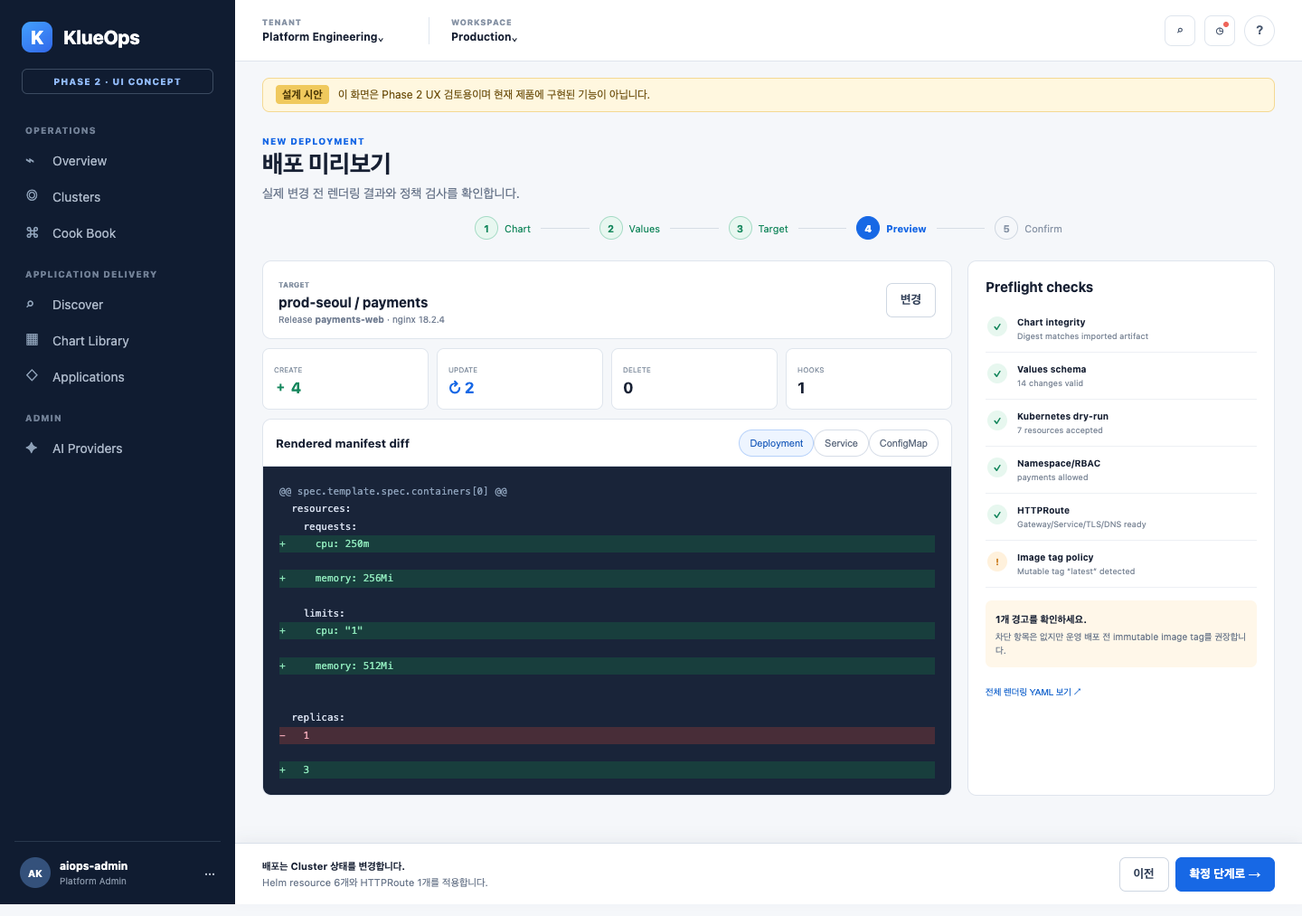
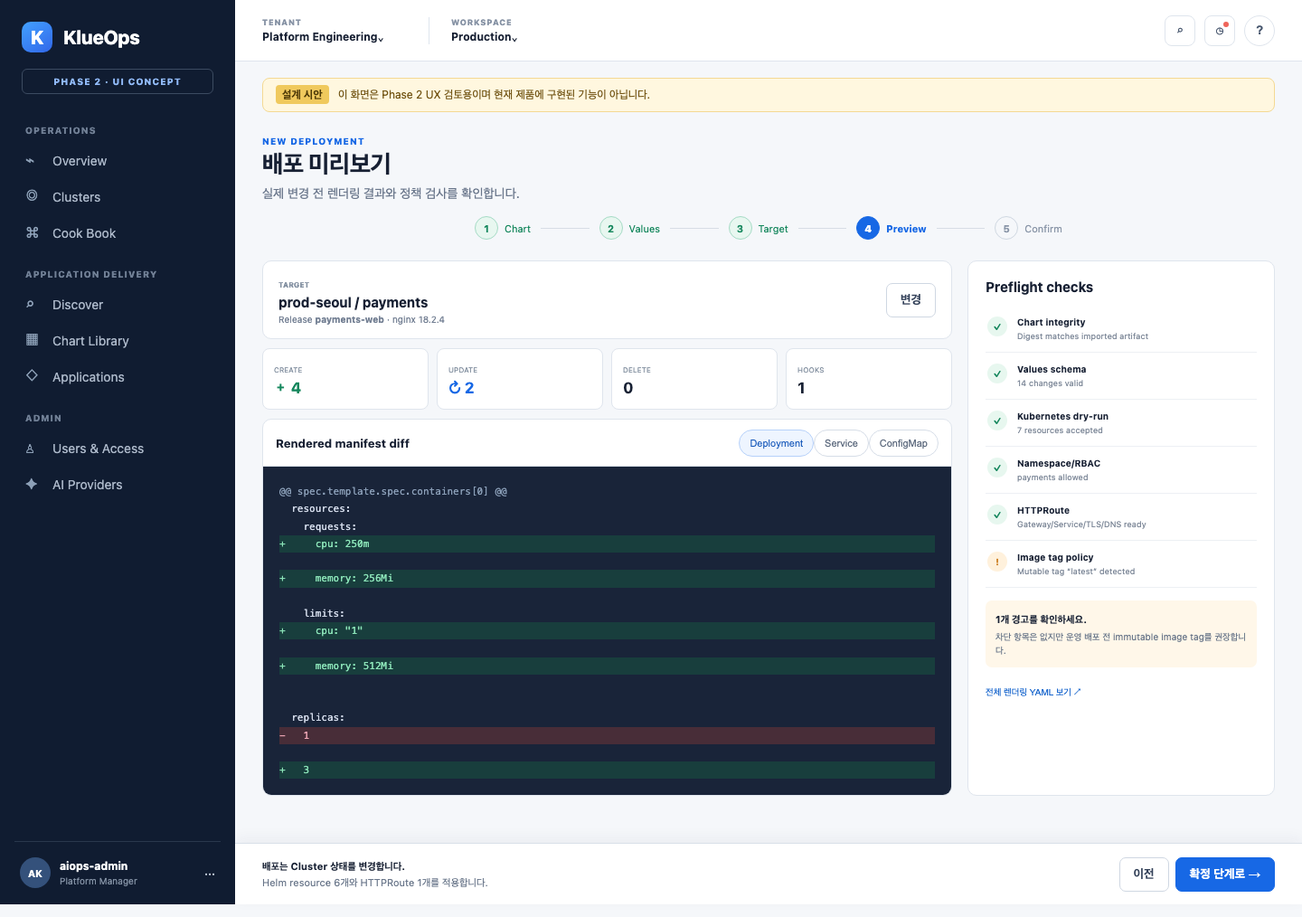
Design tenant access and resource ownership

diff --git a/docs/phase-2/application-delivery/ui-mockups/app.js b/docs/phase-2/application-delivery/ui-mockups/app.js
@@ -1,4 +1,4 @@
-const allowedScreens = ["discover", "library", "sources", "values", "exposure", "preview", "applications", "application-detail", "states", "ai-settings", "models"];
+const allowedScreens = ["discover", "library", "sources", "values", "exposure", "preview", "applications", "application-detail", "states", "access-control", "ai-settings", "models"];
 const overlay = document.querySelector("[data-overlay]");
 const dialog = overlay.querySelector(".modal");
 const modalKicker = overlay.querySelector(".modal-kicker");
@@ -131,6 +131,14 @@ function uninstallConfirmation() {
   openModal({ kicker: "위험 작업 확인", title: "payments-web을 제거할까요?", body: exactBody("Helm resource 6개와 HTTPRoute 1개를 삭제합니다.", "payments-web/payments", "PVC는 없으며 shared Namespace와 Chart Library는 유지합니다. 실패하면 cleanup 상태를 Application History에 남깁니다."), confirm: "Uninstall 실행", danger: true, exact: "payments-web/payments", onConfirm: () => jobResult("Helm uninstall") });
 }
 
+function addUserModal() {
+  openModal({ kicker: "TENANT · USER LIFECYCLE", title: "Platform Engineering에 User 추가", body: `<div class="step-mini"><b>1 Identity</b><span>2 Role & Scope</span><span>3 Review</span></div><label class="modal-field"><span>Identity 연결 방식</span><select><option>Keycloak 초대 사용자 생성</option><option>외부 OIDC 사용자 사전 등록</option><option>OIDC Group 연결</option></select><small>외부 OIDC에서는 KlueOps가 비밀번호를 만들지 않습니다.</small></label>${formField("Email", "new-user@example.com")}<div class="field-grid modal-grid"><label>Role<select><option>Viewer</option><option>Operator</option><option>Cluster Admin</option><option>Tenant Admin</option></select></label><label>Scope<select><option>Tenant 전체</option><option>Workspace</option><option>Cluster</option><option>Namespace</option></select></label></div><label class="external-consent"><input type="checkbox" data-require-check /><span>초대와 Role/Scope, IdP 처리 방식을 확인했습니다.</span></label><div class="info-box">첫 로그인 시 issuer+subject를 membership에 연결합니다. verified email과 issuer allowlist를 검사합니다.</div>`, confirm: "초대 생성", onConfirm: () => toast("User 초대를 만들고 Audit에 기록했습니다.") });
+}
+
+function offboardUserModal() {
+  openModal({ kicker: "위험 작업 계획", title: "Payments Operator 접근 중지", body: `<div class="review-list"><p><span>Tenant</span><strong>Platform Engineering</strong></p><p><span>Role/Scope</span><strong>Operator · prod-seoul/payments</strong></p><p><span>Sessions</span><strong>2개 revoke</strong></p><p><span>Role bindings</span><strong>1개 회수</strong></p><p><span>Running jobs</span><strong>없음</strong></p><p><span>Audit</span><strong>Actor snapshot 유지</strong></p></div><div class="danger-summary"><strong>Portal 접근은 즉시 차단됩니다.</strong><p>Keycloak 계정은 기본적으로 비활성화하며 영구 삭제하지 않습니다.</p></div>`, confirm: "Exact confirmation으로", danger: true, onConfirm: () => openModal({ kicker: "위험 작업 확인", title: "사용자를 탈퇴 처리할까요?", body: exactBody("RoleBinding, Session과 개인 Credential을 회수합니다.", "payments-operator", "기존 Audit과 작업 실행자 표시는 보존됩니다. 마지막 Platform Manager는 이 작업을 수행할 수 없습니다."), confirm: "탈퇴 처리", danger: true, exact: "payments-operator", onConfirm: () => jobResult("User offboarding") }) });
+}
+
 function simpleInfo(title, message) {
   openModal({ title, body: `<div class="info-box"><strong>${title}</strong><p>${message}</p></div>`, confirm: "닫기" });
 }
@@ -188,7 +196,7 @@ function actionFor(button) {
     "이전": () => showScreen("values"),
     "확정 단계로 →": () => openModal({ kicker: "위험 작업 확인", title: "payments-web을 배포할까요?", body: exactBody("prod-seoul / payments에 Helm resource 6개와 HTTPRoute 1개를 적용합니다.", "payments-web", "접근 URL은 https://nginx.cluster.co.kr/입니다. Exposure가 REQUIRED 상태에서 실패하면 Helm atomic rollback 정책을 적용합니다."), confirm: "배포 실행", danger: true, exact: "payments-web", onConfirm: () => jobResult("Helm deployment") }),
     "Application 배포": deploymentStartModal,
-    "···": () => panel === "applications" ? openModal({ title: "Application 작업", body: `<div class="action-list"><button type="button">Application 상세 보기</button><button type="button">Audit 기록 보기</button><button type="button">Uninstall 계획 생성</button></div>`, confirm: "닫기" }) : panel === "sources" ? openModal({ title: "Source 작업", body: `<div class="action-list"><button type="button">지금 동기화</button><button type="button">연결 검사</button><button type="button">Credential 교체</button><button type="button">Source 비활성화</button></div>`, confirm: "닫기" }) : panel === "models" ? openModal({ title: "Local Model 작업", body: `<div class="action-list"><button type="button">Capability 보기</button><button type="button">Regression 실행</button><button type="button">Tenant 허용 설정</button><button type="button">삭제 가능 여부 검사</button></div>`, confirm: "닫기" }) : simpleInfo("Provider 작업", "연결 검사, Profile 편집, 비활성화와 삭제 작업을 선택할 수 있습니다."),
+    "···": () => panel === "applications" ? openModal({ title: "Application 작업", body: `<div class="action-list"><button type="button">Application 상세 보기</button><button type="button">Audit 기록 보기</button><button type="button">Uninstall 계획 생성</button></div>`, confirm: "닫기" }) : panel === "sources" ? openModal({ title: "Source 작업", body: `<div class="action-list"><button type="button">지금 동기화</button><button type="button">연결 검사</button><button type="button">Credential 교체</button><button type="button">Source 비활성화</button></div>`, confirm: "닫기" }) : panel === "models" ? openModal({ title: "Local Model 작업", body: `<div class="action-list"><button type="button">Capability 보기</button><button type="button">Regression 실행</button><button type="button">Tenant 허용 설정</button><button type="button">삭제 가능 여부 검사</button></div>`, confirm: "닫기" }) : panel === "access-control" ? openModal({ title: "User 작업", body: `<div class="action-list"><button type="button">역할과 Scope 편집</button><button type="button">Access Preview</button><button type="button">Session revoke</button><button type="button">접근 중지 계획</button></div>`, confirm: "닫기" }) : simpleInfo("Provider 작업", "연결 검사, Profile 편집, 비활성화와 삭제 작업을 선택할 수 있습니다."),
     "Values Diff": () => openModal({ title: "Revision 6 → 7 Values Diff", body: `<pre class="modal-code"><span class="minus">- replicaCount: 2</span>\n<span class="plus">+ replicaCount: 3</span>\n<span class="plus">+ resources.requests.cpu: 250m</span>\n<span class="plus">+ resources.requests.memory: 256Mi</span></pre>`, confirm: "닫기" }),
     "Rollback": () => openModal({ kicker: "위험 작업 확인", title: "Revision 6으로 Rollback", body: exactBody("payments-web을 이전 Values와 Chart 상태로 되돌립니다.", "payments-web", "새 Helm revision 8이 생성되며 현재 revision 7은 이력에 유지됩니다."), confirm: "Rollback 실행", danger: true, exact: "payments-web", onConfirm: () => jobResult("Helm rollback") }),
     "Upgrade": () => showScreen("values"),
@@ -201,6 +209,10 @@ function actionFor(button) {
     "AI Analysis": () => toast("Application evidence를 수집하는 분석 Job을 시작합니다."),
     "Uninstall 계획": () => openModal({ kicker: "위험 작업 계획", title: "payments-web Uninstall 계획", body: `<div class="review-list"><p><span>Helm resources</span><strong>6개 삭제</strong></p><p><span>Companion</span><strong>HTTPRoute 1개 삭제</strong></p><p><span>PVC</span><strong>없음</strong></p><p><span>Namespace</span><strong>payments 유지</strong></p><p><span>Chart Library</span><strong>nginx 18.2.4 유지</strong></p></div><div class="danger-summary"><strong>계획 생성은 아직 Resource를 삭제하지 않습니다.</strong><p>Preflight가 통과했습니다. 다음 단계에서 payments-web/payments를 정확히 입력해야 합니다.</p></div>`, confirm: "Exact confirmation으로", danger: true, onConfirm: uninstallConfirmation }),
     "변경 저장": () => openModal({ kicker: "TENANT AI ROUTING", title: "AI Routing 변경 저장", body: `<div class="review-list"><p><span>AI Analysis</span><strong>Default Ollama / qwen2.5-coder:7b · Approved</strong></p><p><span>AI Chat</span><strong>Default Ollama / qwen2.5-coder:7b · Approved</strong></p><p><span>Helm Values</span><strong>Default Ollama / gemma3:4b · Approved</strong></p><p><span>External</span><strong>OFF</strong></p></div><div class="info-box">Candidate는 평가 전용이라 선택되지 않았습니다. 변경은 새 요청부터 적용됩니다.</div>`, confirm: "Routing 저장", onConfirm: () => toast("Tenant AI Routing 정책을 저장했습니다.") }),
+    "＋ User 추가": addUserModal,
+    "역할과 Scope 편집": () => simpleInfo("RoleBinding 편집", "Role과 Tenant/Workspace/Cluster/Namespace scope를 변경하면 메뉴 Preview와 실제 API 권한을 다시 계산합니다."),
+    "접근 중지 계획": offboardUserModal,
+    "Tenant 기능 설정": () => openModal({ kicker: "TENANT FEATURE POLICY", title: "Platform Engineering 기능 설정", body: `<div class="policy-list"><p>✓ Core Overview · 필수</p><p>✓ Cluster Operations · ON</p><p>✓ Kubernetes Console · ON</p><p>✓ AI Operations · ON</p><p>✓ Application Delivery · ON</p><p>✓ Access Control · 필수</p></div><div class="info-box">기능 설정은 Role에 없는 권한을 부여할 수 없습니다. OFF는 해당 메뉴와 직접 route/API를 함께 비활성화합니다.</div>`, confirm: "닫기" }),
   };
   return actions[label] || (button.dataset.toast ? () => toast(button.dataset.toast) : () => simpleInfo(label || "동작 안내", "이 컨트롤의 상세 화면 또는 선택 상태가 표시되는 시안입니다."));
 }

diff --git a/docs/phase-2/application-delivery/ui-mockups/index.html b/docs/phase-2/application-delivery/ui-mockups/index.html
@@ -22,11 +22,12 @@
         <button class="nav-item" data-screen="library"><span>▦</span>Chart Library</button>
         <button class="nav-item" data-screen="applications"><span>◇</span>Applications</button>
         <p class="nav-section">ADMIN</p>
+        <button class="nav-item" data-screen="access-control"><span>♙</span>Users &amp; Access</button>
         <button class="nav-item" data-screen="ai-settings"><span>✦</span>AI Providers</button>
       </nav>
       <div class="sidebar-foot">
         <div class="avatar">AK</div>
-        <div><strong>aiops-admin</strong><small>Platform Admin</small></div>
+        <div><strong>aiops-admin</strong><small>Platform Manager</small></div>
         <span>···</span>
       </div>
     </aside>
@@ -165,6 +166,15 @@ resources:
       <section class="screen" data-screen-panel="states">
         <div class="page-head"><div><p class="eyebrow">IMPLEMENTATION STATE CONTRACT</p><h1>필수 상태 시안</h1><p>정상 데이터만이 아니라 실제 운영에서 발생하는 대기·오류·권한·부분 실패의 사용자 안내 기준입니다.</p></div><button class="secondary" data-screen="applications">← Applications</button></div>
         <div class="state-grid"><article class="state-card"><span class="state-icon">◌</span><h3>Loading</h3><p>목록 skeleton과 “Cluster 상태를 확인 중입니다”를 표시하며 기존 결과를 유지합니다.</p></article><article class="state-card"><span class="state-icon">＋</span><h3>Empty Library</h3><p>“아직 Chart가 없습니다.”와 검색·URL 가져오기 두 시작 행동을 제공합니다.</p><button class="secondary">Chart 찾기</button></article><article class="state-card"><span class="state-icon">⌕</span><h3>No results</h3><p>필터를 초기화하거나 다른 키워드를 입력하도록 안내합니다.</p></article><article class="state-card error"><span class="state-icon">!</span><h3>Permission changed</h3><p>실행을 차단하고 필요한 Cluster/Namespace 권한과 관리자 문의 정보를 표시합니다.</p></article><article class="state-card error"><span class="state-icon">×</span><h3>Provider / Source failure</h3><p>입력은 유지하고 masking된 오류, 재시도와 연결 설정 수정 행동을 제공합니다.</p></article><article class="state-card warning"><span class="state-icon">◷</span><h3>Expired plan</h3><p>오래된 Preview 실행을 막고 현재 상태로 다시 계산하는 단일 행동을 제공합니다.</p></article><article class="state-card warning"><span class="state-icon">↶</span><h3>Deploy rollback</h3><p>실패 단계, 자동 rollback 결과와 남은 cleanup 리소스를 구분해 보여줍니다.</p></article><article class="state-card warning"><span class="state-icon">◐</span><h3>Partial collection</h3><p>확신도 제한을 먼저 설명하고 누락 source와 latency는 상세 영역에서 제공합니다.</p></article></div>
+      </section>
+
+      <section class="screen" data-screen-panel="access-control">
+        <div class="page-head"><div><p class="eyebrow">TENANT · IDENTITY &amp; ACCESS</p><h1>Users &amp; Access</h1><p>Platform Engineering 구성원과 역할, Resource scope와 실제 메뉴 접근을 함께 관리합니다.</p></div><button class="primary">＋ User 추가</button></div>
+        <div class="access-context"><div><small>MANAGING TENANT</small><strong>Platform Engineering⌄</strong></div><div><small>YOUR ACCESS</small><strong>Platform Manager · All tenants</strong></div><div><small>FEATURE POLICY</small><strong>Application Delivery ON · AI ON</strong></div></div>
+        <div class="stat-row"><div class="stat"><small>MEMBERS</small><b>14</b><span>12 active · 2 invited</span></div><div class="stat"><small>CLUSTER ADMINS</small><b>3</b><span>2 tenant · 1 cluster scope</span></div><div class="stat"><small>OPERATORS</small><b>7</b><span>4 namespace scoped</span></div><div class="stat"><small>ACCESS RISKS</small><b class="green">0</b><span>last manager protected</span></div></div>
+        <div class="access-layout"><div class="table-card"><div class="table-tools"><div class="small-search">⌕ <span>이름, email, role 검색</span></div><button class="chip active">All</button><button class="chip">Invited 2</button><button class="chip">Suspended 1</button></div><div class="table-scroll"><table><caption>Tenant 구성원과 역할</caption><thead><tr><th>USER</th><th>STATUS</th><th>ROLE</th><th>SCOPE</th><th>LAST LOGIN</th><th></th></tr></thead><tbody><tr class="row-selected"><td><div class="cell-title"><span class="avatar mini-avatar">AK</span><div><strong>Jae Youn Kim</strong><small>aiops-admin · oriones706@example.com</small></div></div></td><td><span class="status healthy">● Active</span></td><td>Platform Manager</td><td>All tenants</td><td>Now</td><td><button class="more">···</button></td></tr><tr><td><div class="cell-title"><span class="avatar mini-avatar">PO</span><div><strong>Payments Operator</strong><small>payments-operator@example.com</small></div></div></td><td><span class="status healthy">● Active</span></td><td>Operator</td><td>prod-seoul / payments</td><td>2h ago</td><td><button class="more">···</button></td></tr><tr><td><div class="cell-title"><span class="avatar mini-avatar">CA</span><div><strong>Cluster Admin</strong><small>cluster-admin@example.com</small></div></div></td><td><span class="status healthy">● Active</span></td><td>Cluster Admin</td><td>prod-seoul</td><td>1d ago</td><td><button class="more">···</button></td></tr><tr><td><div class="cell-title"><span class="avatar mini-avatar">DV</span><div><strong>Data Viewer</strong><small>data-viewer@example.com</small></div></div></td><td><span class="status progressing">◷ Invited</span></td><td>Viewer</td><td>dev-busan / data</td><td>—</td><td><button class="more">···</button></td></tr></tbody></table></div></div>
+          <aside class="detail-panel access-preview"><div><small>ACCESS PREVIEW</small><h2>Payments Operator</h2><p>Operator · prod-seoul / payments</p></div><h3>표시되는 메뉴</h3><div class="menu-preview"><span class="allowed">✓ Overview</span><span class="allowed">✓ Clusters</span><span class="allowed">✓ Cook Book</span><span class="allowed">✓ AI Analysis</span><span class="allowed">✓ Applications</span><span class="denied">— Chart Sources</span><span class="denied">— Users &amp; Access</span><span class="denied">— AI Providers</span></div><div class="notice"><strong>행위는 별도로 제한됩니다.</strong><p>배포·Upgrade·Rollback은 가능하지만 Uninstall, Source credential과 shared Exposure 변경은 Cluster Admin 이상이 필요합니다.</p></div><button class="secondary full">역할과 Scope 편집</button><button class="danger-outline full">접근 중지 계획</button></aside></div>
+        <div class="source-policy"><div><strong>메뉴 정책 원칙</strong><p>Tenant Feature와 현재 scope Capability가 모두 허용할 때 표시합니다. 메뉴 숨김과 별개로 직접 URL/API도 Backend에서 다시 검사합니다.</p></div><button class="secondary">Tenant 기능 설정</button></div>
       </section>
 
       <section class="screen" data-screen-panel="ai-settings">

diff --git a/docs/phase-2/application-delivery/ui-mockups/phase2-additions.css b/docs/phase-2/application-delivery/ui-mockups/phase2-additions.css
@@ -103,10 +103,23 @@ table caption { position: absolute; width: 1px; height: 1px; padding: 0; margin:
 .launch-options button:hover, .launch-options button:focus-visible { border-color: #6ea7f4; background: #eef5ff; outline: 2px solid #bcd7fb; }
 .launch-options span { color: var(--muted); font-size: 10px; }
 .launch-options em { margin-left: 6px; padding: 2px 6px; border-radius: 10px; background: #e8f6ef; color: var(--green); font-size: 8px; font-style: normal; }
+.access-context { display: grid; grid-template-columns: 1fr 1fr 1.2fr; gap: 1px; margin-bottom: 16px; overflow: hidden; border: 1px solid var(--line); border-radius: 9px; background: var(--line); }
+.access-context > div { display: flex; flex-direction: column; gap: 5px; padding: 13px 16px; background: #fff; }
+.access-context small { color: #8491a3; font-size: 8px; font-weight: 800; }
+.access-context strong { font-size: 11px; }
+.access-layout { display: grid; grid-template-columns: minmax(650px, 1fr) 340px; gap: 17px; }
+.access-preview h2 { margin: 5px 0; }
+.access-preview > div:first-child p { color: var(--muted); font-size: 10px; }
+.menu-preview { display: grid; grid-template-columns: 1fr 1fr; gap: 7px; margin: 12px 0 16px; }
+.menu-preview span { padding: 8px; border-radius: 6px; font-size: 9px; }
+.menu-preview .allowed { background: #eaf8f1; color: #167453; }
+.menu-preview .denied { background: #f2f4f7; color: #8490a1; }
+.mini-avatar { display: grid; place-items: center; width: 30px; height: 30px; border-radius: 50%; background: #2b5185; color: #fff; font-size: 9px; font-weight: 800; }
+.modal-grid { padding: 0 0 14px; }
 
 @media (max-width: 1100px) {
   main { min-width: 0; }
-  .split-layout, .studio-layout, .preview-grid { grid-template-columns: 1fr; }
+  .split-layout, .studio-layout, .preview-grid, .access-layout { grid-template-columns: 1fr; }
   .detail-panel, .ai-panel, .checks-panel { position: static; }
   .state-grid { grid-template-columns: repeat(2, minmax(0, 1fr)); }
   .app-tabs { overflow-x: auto; white-space: nowrap; }
@@ -124,7 +137,7 @@ table caption { position: absolute; width: 1px; height: 1px; padding: 0; margin:
   .screen { padding: 20px 16px 96px; }
   .page-head { align-items: flex-start; gap: 16px; }
   .page-head h1 { font-size: 23px; }
-  .stat-row, .summary-cards, .field-grid, .choice-grid, .resource-banner, .deployment-map { grid-template-columns: 1fr 1fr; }
+  .stat-row, .summary-cards, .field-grid, .choice-grid, .resource-banner, .deployment-map, .access-context { grid-template-columns: 1fr 1fr; }
   .wide-stepper i, .stepper i { width: 20px; }
   .values-nav { overflow-x: auto; display: flex; }
   .values-nav button { min-width: 130px; }
@@ -138,7 +151,7 @@ table caption { position: absolute; width: 1px; height: 1px; padding: 0; margin:
   .page-head { flex-direction: column; }
   .head-actions, .page-head > div:last-child { width: 100%; }
   .head-actions button { flex: 1; }
-  .stat-row, .summary-cards, .field-grid, .choice-grid, .resource-banner, .deployment-map, .state-grid, .resource-grid, .form-grid { grid-template-columns: 1fr; }
+  .stat-row, .summary-cards, .field-grid, .choice-grid, .resource-banner, .deployment-map, .state-grid, .resource-grid, .form-grid, .access-context { grid-template-columns: 1fr; }
   .search-row { height: auto; flex-wrap: wrap; padding: 8px 10px; }
   .search-row input { min-width: 0; height: 40px; }
   .search-row button { width: 100%; }

diff --git a/docs/phase-2/tenant-access-and-resource-ownership.md b/docs/phase-2/tenant-access-and-resource-ownership.md
@@ -1,0 +1,216 @@
+# Phase 2 Tenant Access, User Lifecycle and Resource Ownership
+
+기준일: 2026-09-15
+
+상태: 목표 설계 확정, 구현 미착수
+
+## 1. 결정 요약
+
+KlueOps의 접근 제어는 `사용자 역할`, `역할이 부여된 scope`, `Tenant 기능 정책`, `대상 resource 소유권`을 모두 만족해야 한다.
+
+```text
+허용 = Tenant 기능 ON
+    ∩ 현재 Tenant/Workspace에서 Role이 부여한 Capability
+    ∩ 대상 Resource가 허용 Scope 안에 있음
+    ∩ 원격 Kubernetes Credential/RBAC 허용(Cluster 작업인 경우)
+```
+
+- 메뉴 숨김은 편의 기능이며 보안 경계가 아니다. 직접 URL과 모든 Backend API에서 같은 capability/scope를 다시 검사한다.
+- Tenant 설정은 권한을 새로 부여하지 않고 기능을 끄는 방향으로만 동작한다. Role에 없는 capability를 Tenant 메뉴 설정으로 허용할 수 없다.
+- `Platform Manager`는 Platform scope에서 모든 Tenant, Workspace, Cluster와 모든 제품 capability를 가진다. 단, 원격 Cluster의 Kubernetes credential/RBAC까지 우회하지는 않으며 실제 Kubernetes API가 거부한 작업은 실행할 수 없다.
+- 기존 코드의 `PLATFORM_ADMIN`은 1차 migration 동안 Platform Manager의 저장용 호환 이름으로 취급하고 사용자 화면에는 `Platform Manager`만 표시한다. 이후 DB/API migration에서 enum 명칭을 정리한다.
+- Tenant 간 Resource 이동은 일반 수정이 아니다. export/import 또는 별도 Platform Manager 전용 ownership transfer workflow로만 수행한다.
+
+## 2. 현재 구현 점검
+
+| 영역 | 현재 상태 | 판단 |
+| --- | --- | --- |
+| Tenant/Workspace | DB와 selector 존재 | 재사용 |
+| Cluster ownership | `clusters.tenant_id`, `workspace_id` NOT NULL 및 FK 존재 | 적합 |
+| 역할 | `PLATFORM_ADMIN`, `CLUSTER_ADMIN`, `OPERATOR`, `VIEWER` | Tenant Admin 추가 필요 |
+| Capability | Cluster/Analysis/Operation 중심 9개 | Chart/Application/Tenant member capability 확장 필요 |
+| Menu guard | Vue route meta와 `auth.hasCapability()` | scope별 capability가 아니라 전체 binding union이라 개선 필요 |
+| API guard | capability와 object scope 검사 | 신규 Phase 2 endpoint와 collection query의 tenant predicate 보강 필요 |
+| Existing Application | Cluster ID만 저장 | Tenant/Workspace 직접 ownership snapshot 추가 필요 |
+| AI Analysis | Cluster ID만 저장 | Tenant/Workspace 직접 ownership snapshot 추가 필요 |
+| Phase 2 Chart/Application | 문서상 Tenant scope | composite FK와 repository 규칙 구체화 필요 |
+| User | OIDC 최초 로그인 시 JIT 생성, 활성/비활성 지원 | 초대/사전 등록/탈퇴 workflow 필요 |
+| Role binding | User/Group + Platform/Tenant/Workspace/Cluster/Namespace scope | 기반 적합, scoped administration 필요 |
+
+중요한 현재 gap:
+
+1. Session의 capability가 모든 RoleBinding에서 평탄화된다. Tenant A의 권한 때문에 Tenant B 메뉴가 보일 수 있으므로 선택한 Tenant/Workspace 기준 `effectiveCapabilities`가 필요하다.
+2. OIDC 표준 group을 자동으로 Platform scope RoleBinding처럼 해석한다. multi-tenant 운영에서는 명시적으로 등록된 Platform Manager group을 제외하고 group도 Tenant/Workspace scope binding을 사용해야 한다.
+3. `/api/security`는 현재 Platform 수준 `identity:manage`만 전제로 전체 사용자를 조회한다. Tenant Admin을 추가하기 전에 Tenant별 membership endpoint와 query를 분리해야 한다.
+4. 기존 Application과 Analysis는 Cluster join으로 Tenant를 알 수 있지만 row 자체에 ownership이 없다. 조회 성능, 삭제된 Cluster의 감사 보존, 잘못된 join 방지를 위해 immutable ownership snapshot을 둔다.
+
+## 3. 역할 모델
+
+### 3.1 역할
+
+| 역할 | Scope | 책임 |
+| --- | --- | --- |
+| Platform Manager | PLATFORM | 모든 Tenant와 Platform 설정, Provider/Model, Tenant/User/Role, 모든 Resource와 Audit |
+| Tenant Admin | TENANT/WORKSPACE | Tenant 구성원, 기능 정책, 공유 Chart Library/Source, Tenant AI routing과 모든 Tenant 내 운영 |
+| Cluster Admin | TENANT/WORKSPACE/CLUSTER | 허용 Cluster 등록·설정과 Namespace/Application 전체 수명주기, 분석/정책/Audit 조회 |
+| Operator | CLUSTER/NAMESPACE 또는 상위 scope | 분석 실행, 허용 대상 Application 배포·Upgrade·Rollback, Cook Book/Console 실행 |
+| Viewer | 모든 비-Platform scope | 허용 Resource와 분석/Application/Audit의 read-only 조회 |
+
+`Tenant Admin`은 Platform Provider credential, Ollama model 설치, 다른 Tenant, Platform runtime 설정을 관리할 수 없다. `Cluster Admin`도 Tenant 공유 Source credential과 Tenant 구성원을 임의 변경할 수 없다.
+
+### 3.2 핵심 Capability
+
+| Capability | Platform Manager | Tenant Admin | Cluster Admin | Operator | Viewer |
+| --- | :---: | :---: | :---: | :---: | :---: |
+| `tenant:read` | ✓ | ✓ | ✓ | ✓ | ✓ |
+| `tenant:manage` | ✓ | Tenant 설정 일부 | — | — | — |
+| `tenant:member:manage` | ✓ | ✓ | — | — | — |
+| `cluster:read` | ✓ | ✓ | ✓ | ✓ | ✓ |
+| `cluster:manage` | ✓ | ✓ | ✓ | — | — |
+| `analysis:read` / `analysis:run` | ✓ | ✓ | ✓ | ✓ | read only |
+| `chart:read` | ✓ | ✓ | ✓ | ✓ | ✓ |
+| `chart:import` / `chart:manage` | ✓ | ✓ | read only | — | — |
+| `values:edit` | ✓ | ✓ | ✓ | ✓ | — |
+| `application:read` | ✓ | ✓ | ✓ | ✓ | ✓ |
+| `application:deploy` / `rollback` | ✓ | ✓ | ✓ | ✓ | — |
+| `application:delete` / `exposure` | ✓ | ✓ | ✓ | — | — |
+| `operation:execute` | ✓ | ✓ | ✓ | ✓ | — |
+| `policy:manage` | ✓ | ✓ | ✓ | — | — |
+| `audit:read` | ✓ | ✓ | ✓ | 자기 작업 | read only |
+| `ai-routing:manage` | ✓ | ✓ | — | — | — |
+| `ai-provider:manage` / `ai-model:manage` | ✓ | — | — | — | — |
+
+Operator의 rollback은 Preview, RBAC, exact confirmation을 통과한 일반 workload 범위로 제한한다. Uninstall, shared exposure, Namespace 생성과 cluster-scoped resource는 Cluster Admin 이상만 실행한다.
+
+## 4. 메뉴 접근 정책
+
+메뉴는 label별 ACL을 직접 저장하지 않고 안정적인 `featureKey`와 `requiredCapabilities`로 정의한다.
+
+| Feature/Menu | Feature key | 표시 조건 |
+| --- | --- | --- |
+| Overview | `CORE_OVERVIEW` | `cluster:read` |
+| Clusters | `CLUSTER_OPERATIONS` | `cluster:read` |
+| Cook Book/Console | `KUBERNETES_CONSOLE` | 조회는 `cluster:read`, 실행은 `operation:execute` |
+| AI Analysis/Chat | `AI_OPERATIONS` | `analysis:read`; 실행 UI는 `analysis:run` |
+| Application Delivery | `APPLICATION_DELIVERY` | `chart:read` 또는 `application:read` |
+| Chart Sources | `APPLICATION_DELIVERY` | `chart:manage` |
+| AI Providers - Tenant Routing | `AI_PROVIDER_ROUTING` | `ai-routing:manage` |
+| AI Providers - Provider/Model | `AI_PROVIDER_PLATFORM` | `ai-provider:manage` 또는 `ai-model:manage` |
+| Users & Access | `ACCESS_CONTROL` | `tenant:member:manage` 또는 Platform Manager |
+| Tenants/Platform Runtime | `PLATFORM_ADMINISTRATION` | Platform Manager |
+
+`tenant_feature_policies(tenant_id, feature_key, enabled, updated_by, updated_at)`는 Tenant별 기능 ON/OFF를 저장한다. `CORE_OVERVIEW`, 접근 제어와 감사 기능처럼 안전상 필수인 기능은 비활성화할 수 없다. Frontend는 Backend가 반환한 `navigation[]` 또는 현재 scope의 effective capability로 메뉴를 구성하고 label을 권한 데이터로 사용하지 않는다.
+
+직접 URL 접근 결과:
+
+- Feature OFF: `FEATURE_DISABLED` Problem Detail과 Tenant Admin 문의 안내
+- Capability 없음: 403 `CAPABILITY_DENIED`
+- 다른 Tenant Resource: 존재 여부를 숨기기 위해 404 사용
+- Role/Scope가 실행 중 변경됨: mutation 재검사 후 차단, 입력과 plan은 보존하지 않고 재생성 안내
+
+## 5. Resource ownership
+
+### 5.1 직접 소유해야 하는 Resource
+
+다음 row는 `tenant_id NOT NULL`을 가진다. Workspace가 적용되는 Resource는 `workspace_id NOT NULL`도 가진다.
+
+- Cluster, ClusterCredential metadata
+- AnalysisSession, Analysis result/command evidence, Incident와 Runbook의 Tenant copy
+- Chart, ChartVersion, ChartSource, ValuesProfile/Revision
+- DeploymentPlan, Application, ReleaseOperation, CompanionResource
+- AI Conversation와 TenantAiRoutingPolicy
+- Async Job, Audit event, Notification
+
+Cluster/Namespace 기반 Resource도 `tenant_id`, `workspace_id`, `cluster_id`를 함께 저장한다. DB에는 `(cluster_id, tenant_id, workspace_id)` composite FK를 두어 서로 다른 Tenant의 Cluster를 참조할 수 없게 한다. Application을 참조하는 Analysis에는 `(application_id, tenant_id)` composite FK도 둔다.
+
+ChartVersion은 Tenant Chart의 하위 Resource다. 같은 digest가 여러 Tenant에 존재할 때 payload blob만 content-addressed storage에서 deduplicate할 수 있고, metadata/승인/trust/사용 이력은 Tenant별로 분리한다. Tenant A가 가져온 Chart 존재 여부나 Values를 Tenant B에 노출하지 않는다.
+
+### 5.2 불변성과 삭제
+
+- 생성 후 `tenant_id`는 일반 update로 변경하지 않는다.
+- Tenant 비활성화 시 신규 mutation과 login scope 선택을 차단하되 Audit과 export는 Platform Manager가 조회할 수 있다.
+- Tenant 삭제는 dependency report, retention/export, exact confirmation과 async cleanup을 거치는 Platform Manager 전용 작업이다.
+- User/Resource 삭제 후에도 Audit의 actor/resource snapshot은 보존한다.
+- 모든 repository method는 `tenantId`를 필수 인자로 받고 ID 단독 조회 method를 application code에 노출하지 않는다.
+
+## 6. User 생성, 활성화와 삭제
+
+KlueOps는 OIDC 기반이므로 제품 DB 사용자와 로그인 IdP 사용자를 구분한다.
+
+### 6.1 추가
+
+1. Platform Manager 또는 Tenant Admin이 Tenant의 `Users & Access`에서 `User 추가`를 선택한다.
+2. Keycloak 관리 연동이 켜진 설치는 username/email, 임시 활성화 방식, Tenant Role/Scope를 입력한다. Backend가 Keycloak Admin API로 사용자를 만들고 required action 또는 초대 메일을 설정한다.
+3. 외부 OIDC/기업 IdP 설치는 KlueOps가 비밀번호 사용자를 만들지 않는다. email/subject 또는 IdP group을 `PENDING` membership으로 사전 등록하고 IdP 관리자가 계정을 준비한다.
+4. 첫 로그인 때 issuer+subject를 pending membership에 연결한다. email만으로 자동 연결할 때는 verified email과 issuer allowlist를 필수로 한다.
+5. 자기 자신에게 Platform Manager를 부여하거나 마지막 Platform Manager를 제거하는 작업은 차단한다.
+
+### 6.2 상태
+
+`INVITED → ACTIVE → SUSPENDED → OFFBOARDED`
+
+- `SUSPENDED`: 로그인과 API access 차단, RoleBinding 유지 가능, 복구 가능
+- `OFFBOARDED`: 모든 RoleBinding, session, personal credential과 미완료 Job access 회수; Audit actor snapshot 유지
+- 물리 삭제는 retention 만료 후 개인정보 최소화를 위한 별도 cleanup이며 운영 UI의 기본 `삭제`가 아니다.
+
+### 6.3 삭제 UX
+
+UI 명칭은 모호한 `삭제` 대신 `접근 중지`와 `탈퇴 처리`를 사용한다.
+
+1. 영향 Preview: Tenant, Role/Scope, 소유 중인 작업, 실행 중 Job, API token/session, IdP 처리 범위
+2. 다른 관리자로 ownership transfer가 필요한 항목 표시
+3. exact username 입력
+4. Portal session revoke와 RoleBinding 회수
+5. Keycloak 연동이면 `IdP 계정 비활성화`를 기본값으로 하며 영구 삭제는 별도 선택·권한·확인
+6. 결과와 실패한 cleanup을 Audit에 기록
+
+## 7. API와 Session 계약
+
+Session 응답은 전역 union capability만 반환하지 않는다.
+
+```json
+{
+  "platformRole": "PLATFORM_MANAGER",
+  "selectedScope": { "tenantId": "...", "workspaceId": "..." },
+  "effectiveCapabilities": ["cluster:read", "application:deploy"],
+  "enabledFeatures": ["CORE_OVERVIEW", "APPLICATION_DELIVERY"],
+  "navigation": [{ "key": "applications", "visible": true }]
+}
+```
+
+권장 endpoint:
+
+- `GET /api/me/access?tenantId=&workspaceId=`: 현재 scope의 capability, feature와 navigation
+- `GET/POST /api/tenants/{tenantId}/members`: Tenant membership 조회/초대
+- `PATCH /api/tenants/{tenantId}/members/{membershipId}`: suspend/reactivate
+- `POST /api/tenants/{tenantId}/members/{membershipId}/offboard-plan`
+- `POST /api/tenants/{tenantId}/members/{membershipId}/offboard`
+- `GET/PATCH /api/tenants/{tenantId}/features`
+- 기존 `/api/security/users`는 Platform Manager용 전체 directory 진단으로 제한
+
+Backend는 request body의 tenantId를 신뢰하지 않고 선택한 Tenant header/session과 parent Resource에서 scope를 유도한다. collection query도 `WHERE tenant_id = :tenantId`를 기본으로 하고 Platform Manager의 cross-tenant 조회만 명시적인 all-tenants endpoint/filter로 제공한다.
+
+## 8. 구현 순서
+
+1. P2-A0: `Platform Manager` 명칭, Tenant Admin, 신규 capability/feature catalog와 migration
+2. P2-A1: scope별 effective access/session과 navigation contract; implicit platform group mapping 제거
+3. P2-A2: Resource ownership migration 및 composite FK/repository tenant guard
+4. P2-A3: Tenant membership, invite/suspend/offboard와 scoped RoleBinding API
+5. P2-A4: Users & Access, Role access preview, Tenant feature UI
+6. P2-A5: Tenant A/B/Platform Manager 보안 수용시험 후 Chart/Application 구현
+
+Application Delivery 도메인 구현(P2-B 이후)은 P2-A0~A5가 완료된 뒤 시작한다. UI 메뉴 숨김만 먼저 구현하거나 신규 Chart table을 ownership migration보다 먼저 만들지 않는다.
+
+## 9. 필수 수용시험
+
+- Tenant A Operator가 Tenant B Cluster/Analysis/Chart/Application ID를 알아도 404
+- Tenant A Role만 있는 사용자가 Tenant B를 선택하면 해당 메뉴와 mutation capability가 없음
+- Operator는 배포/rollback 가능, uninstall/source credential/외부 exposure 변경 불가
+- Cluster Admin은 허용 Cluster의 전체 Application 작업 가능, Tenant member와 Platform Provider 관리 불가
+- Tenant Admin은 Tenant member/feature/Library/routing 관리 가능, 다른 Tenant와 Platform model 관리 불가
+- Platform Manager는 모든 Tenant를 선택하고 모든 Resource/API 사용 가능
+- Feature OFF 시 메뉴/직접 route/API가 각각 일관된 상태 반환
+- User suspend 즉시 신규 요청 차단, session revoke 후 재접속 차단
+- 마지막 Platform Manager 제거/비활성화/탈퇴 차단
+- offboard 후 RoleBinding과 secret/token access 제거, 기존 Audit actor 표시 유지
+- Cluster/Application/Analysis/Chart composite FK가 cross-tenant write 차단

diff --git a/docs/phase-2/application-delivery/ai-provider-and-model-strategy.md b/docs/phase-2/application-delivery/ai-provider-and-model-strategy.md
@@ -97,7 +97,7 @@ Spring AI는 Ollama, OpenAI와 Google GenAI를 포함한 provider-neutral ChatMo
 Provider credential과 Tenant 선택을 분리한다.
 
 ```text
-Platform Admin
+Platform Manager
 └─ Provider Profile 등록
    ├─ Local Ollama
    ├─ OpenAI Production
@@ -209,7 +209,7 @@ Fallback은 profile에 설정해도 다음을 만족해야 한다.
 
 ## 10. Provider 설정 UX
 
-Platform Admin 화면은 다음 순서를 사용한다.
+Platform Manager 화면은 다음 순서를 사용한다.
 
 1. Provider type과 profile 이름 선택
 2. Base URL과 existing Secret/API key 입력
@@ -227,7 +227,7 @@ Tenant Admin은 key를 보지 않고 purpose별 profile/model, 외부 전송과 
 Ollama Provider Profile에는 `Models 관리` 진입점을 제공한다. 현재 `qwen2.5-coder:7b`를 유지한 채 여러 model tag를 설치할 수 있으며 Router가 요청 purpose의 정확한 model tag를 Ollama 요청에 지정한다.
 
 ```text
-Platform Admin
+Platform Manager
 → AI Providers
 → Default Ollama
 → Models 관리
@@ -253,7 +253,7 @@ Ollama API adapter는 다음 endpoint만 allowlist한다.
 - `parameter_size` 파싱 결과가 9B를 초과하거나 불명확하면 활성화하지 않는다.
 - 임의 URL/파일/Modelfile 입력은 MVP에서 허용하지 않고 Ollama library model tag만 받는다.
 - 다운로드 전 예상 크기, 남은 volume, license와 source를 보여준다.
-- model pull/delete는 Platform Admin 전용 async Job이며 중복 요청과 동시 download를 제한한다.
+- model pull/delete는 Platform Manager 전용 async Job이며 중복 요청과 동시 download를 제한한다.
 - 현재 routing, fallback 또는 실행 중 Job이 참조하는 model은 삭제하지 않는다.
 - `DOWNLOADING → INSTALLED → VALIDATING → CANDIDATE → APPROVED | REJECTED` 상태를 기록한다.
 - Candidate는 회귀 fixture 실행에만 사용할 수 있고 Tenant production routing에는 Approved model만 노출한다.

diff --git a/docs/phase-2/README.md b/docs/phase-2/README.md
@@ -20,6 +20,7 @@ Local LLM은 특정 계열에 고정하지 않고 9B 이하 후보를 동일 fix
 - [아키텍처 설계](application-delivery/architecture-design.md)
 - [AI Provider 및 모델 전략](application-delivery/ai-provider-and-model-strategy.md)
 - [UI/UX 화면 설계](application-delivery/ui-ux-screen-design.md)
+- [Tenant 접근 권한·User 생명주기·Resource 소유권](tenant-access-and-resource-ownership.md)
 - [실행 가능한 HTML 시안](application-delivery/ui-mockups/index.html)
 
 ## 문서 상태
@@ -29,6 +30,7 @@ Local LLM은 특정 계열에 고정하지 않고 9B 이하 후보를 동일 fix
 | 제품 범위 | 설계 완료 |
 | 아키텍처 | 설계 완료 |
 | UI/UX | Phase 2 상호작용·반응형·접근성·운영 상태 시안 완료, P2-0 기존 제품 UI 현대화 요구사항 확정 |
+| Tenant/RBAC | Platform Manager, Tenant 역할, 메뉴 정책, User 생명주기와 Resource 직접 소유권 설계 확정 |
 | Backend/Frontend 구현 | 미착수 |
 | 로컬 Kubernetes 수용시험 | 미착수 |
 
